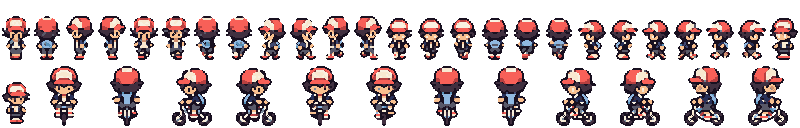
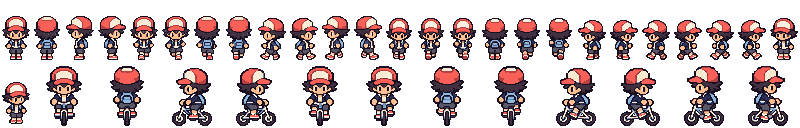
Ship the approved Source Detail 2× player artwork

diff --git a/web/src/hd-player.ts b/web/src/hd-player.ts
@@ -14,7 +14,7 @@ const COUNTS = { walking: 9, running: 11, cycling: 9 };
 export function parsePlayerTemplates(value: unknown, atlasWidth: number, atlasHeight: number): PlayerTemplate[] | undefined {
   if (!value || typeof value !== 'object') return;
   const pack = value as Record<string, unknown>;
-  if (pack.version !== 1 || pack.scale !== 2 || pack.style !== 'approved-crisp-2x' || pack.atlas !== 'atlas.png'
+  if (pack.version !== 1 || pack.scale !== 2 || pack.style !== 'approved-source-detail-2x' || pack.atlas !== 'atlas.png'
     || !Array.isArray(pack.sprites) || pack.sprites.length !== 38) return;
   const templates: PlayerTemplate[] = [], seen = new Set<string>();
   for (const raw of pack.sprites) {
@@ -49,7 +49,7 @@ export class PlayerMatcher {
   readonly templates: PlayerTemplate[];
   scannedPixels = 0;
   constructor(templates: PlayerTemplate[]) {
-    // Equal native poses also have identical approved Scale2x pixels. Do not
+    // Equal native poses also have identical approved 2× pixels. Do not
     // turn aliases into false ambiguity or invent a distinction native lacks.
     this.templates = templates.filter((t, i) => templates.findIndex(other => other.w === t.w && other.h === t.h
       && other.px.every((v, n) => v === t.px[n])) === i);

diff --git a/scripts/hd-player.py b/scripts/hd-player.py
@@ -1,5 +1,5 @@
 #!/usr/bin/env python3
-"""Package the approved Crisp2x prototype byte-exact; no redraw/resampling.
+"""Package the approved Source Detail 2× artwork without resampling.
 
   python3 scripts/hd-player.py [--check]
 Native templates use the installed field palette after RGB555 quantization.
@@ -10,9 +10,11 @@ import base64,hashlib,json,sys
 from PIL import Image
 
 ROOT=Path(__file__).resolve().parents[1]
-SOURCE=ROOT/'web/src/assets/player-crisp-2x/source'
+SOURCE=ROOT/'web/src/assets/player/source'
 OUT=ROOT/'web/public/hd/player'
 SPECS={'walking':(16,9,{2,7,8}), 'running':(16,11,{6,7,8}), 'cycling':(32,9,{2,7,8})}
[2 lines of base64/hex data omitted]
 
 def digest(data):return hashlib.sha256(data).hexdigest()
 def template(image):
@@ -20,16 +22,21 @@ def template(image):
  for r,g,b,a in image.get_flattened_data():values.extend((0xffff if not a else (r>>3)<<10|(g>>3)<<5|b>>3).to_bytes(2,'little'))
  return base64.b64encode(bytes(values)).decode()
 def package():
- entries=[];pictures=[];inputs={};allowed=set()
+ entries=[];pictures=[];native_inputs={};art_inputs={};allowed=set()
  for mode,(w,count,west) in SPECS.items():
-  paths={v:SOURCE/f'{mode}-{v}.png' for v in ['native','crisp-2x']}
-  for p in paths.values():inputs[p.name]=digest(p.read_bytes())
-  native=Image.open(paths['native']).convert('RGBA');crisp=Image.open(paths['crisp-2x']).convert('RGBA')
-  assert native.size==(w*count,32) and crisp.size==(w*count*2,64)
+  native_path=SOURCE/f'{mode}-native.png'
+  art_path=SOURCE/f'{mode}-source-2x.png'
+  native_inputs[native_path.name]=digest(native_path.read_bytes())
+  art_inputs[art_path.name]=digest(art_path.read_bytes())
+  native=Image.open(native_path).convert('RGBA')
+  detail=Image.open(art_path).convert('RGBA')
+  assert native.size==(w*count,32) and detail.size==(w*count*2,64)
   palette={p[:3] for p in native.get_flattened_data() if p[3]};allowed.update(palette)
-  assert {p[:3] for p in crisp.get_flattened_data() if p[3]} <= palette
+  assert {p[:3] for p in detail.get_flattened_data() if p[3]} <= palette
   for frame in range(count):
-   small=native.crop((frame*w,0,(frame+1)*w,32));big=crisp.crop((frame*w*2,0,(frame+1)*w*2,64))
+   small=native.crop((frame*w,0,(frame+1)*w,32))
+   big=detail.crop((frame*w*2,0,(frame+1)*w*2,64))
+   assert big.getbbox()==tuple(bound*2 for bound in small.getbbox()), (mode, frame)
    for east in ([False,True] if frame in west else [False]):
     n=small.transpose(Image.Transpose.FLIP_LEFT_RIGHT) if east else small
     p=big.transpose(Image.Transpose.FLIP_LEFT_RIGHT) if east else big
@@ -41,18 +48,36 @@ def package():
   if x+pic.width>800:x=0;y+=64
   entry['atlasX'],entry['atlasY']=x,y;x+=pic.width
  atlas=Image.new('RGBA',(800,y+64))
- for entry,pic in zip(entries,pictures):atlas.alpha_composite(pic,(entry['atlasX'],entry['atlasY']))
- pack=dict(version=1,scale=2,style='approved-crisp-2x',atlas='atlas.png',sprites=entries)
+ for entry,pic in zip(entries,pictures):atlas.paste(pic,(entry['atlasX'],entry['atlasY']))
+ if digest(atlas.tobytes()) != REVIEW_RGBA_SHA256:
+  raise ValueError('Packaged player pixels differ from the approved Source Detail 2× gameplay comparison.')
+ pack=dict(version=1,scale=2,style='approved-source-detail-2x',atlas='atlas.png',sprites=entries)
  import io
- f=io.BytesIO();atlas.save(f,format='PNG',optimize=True);png=f.getvalue();payload=(json.dumps(pack,separators=(',',':'))+'\n').encode()
- provenance=dict(style='Option B: Crisp2x (Scale2x)',source='Story player-sharpness-preview-20261124/sheets; approved unchanged prototypes',nativeSourceInputsSha256=inputs,counts={k:v[1] for k,v in SPECS.items()},east='Only native west poses are mirrored',templateCount=len(entries),atlasScale=2,atlasSize=list(atlas.size),opaquePaletteColors=len(allowed),atlasSha256=digest(png),packSha256=digest(payload),nativeControl='Framebuffer pose/time/position; no animation timer, ROM or save changes')
+ f=io.BytesIO();atlas.save(f,format='PNG');png=f.getvalue();payload=(json.dumps(pack,separators=(',',':'))+'\n').encode()
+ provenance=dict(
+  style='Source Detail 2×',
+  source='Story Source Detail sheets, approved in the right panel of the 2026-11-24 gameplay comparison',
+  nativeSourceInputsSha256=native_inputs,
+  artworkSourceInputsSha256=art_inputs,
+  approvedComparisonAtlasSha256=REVIEW_ATLAS_SHA256,
+  approvedComparisonRgbaSha256=REVIEW_RGBA_SHA256,
+  counts={k:v[1] for k,v in SPECS.items()},
+  east='Only native west poses are mirrored',
+  templateCount=len(entries),
+  atlasScale=2,
+  atlasSize=list(atlas.size),
+  opaquePaletteColors=len(allowed),
+  atlasSha256=digest(png),
+  packSha256=digest(payload),
+  nativeControl='Framebuffer pose/time/position',
+ )
  return {'atlas.png':png,'player.json':payload,'provenance.json':(json.dumps(provenance,indent=2)+'\n').encode()}
 
 if __name__=='__main__':
  data=package()
  if '--check' in sys.argv:
   for name,payload in data.items():assert (OUT/name).read_bytes()==payload,name
-  print('Approved2x player atlas, templates and provenance reproduce byte-exact')
+  print('Approved Source Detail 2× atlas, templates and provenance reproduce byte for byte')
  else:
   OUT.mkdir(parents=True,exist_ok=True)
   for name,payload in data.items():(OUT/name).write_bytes(payload)
